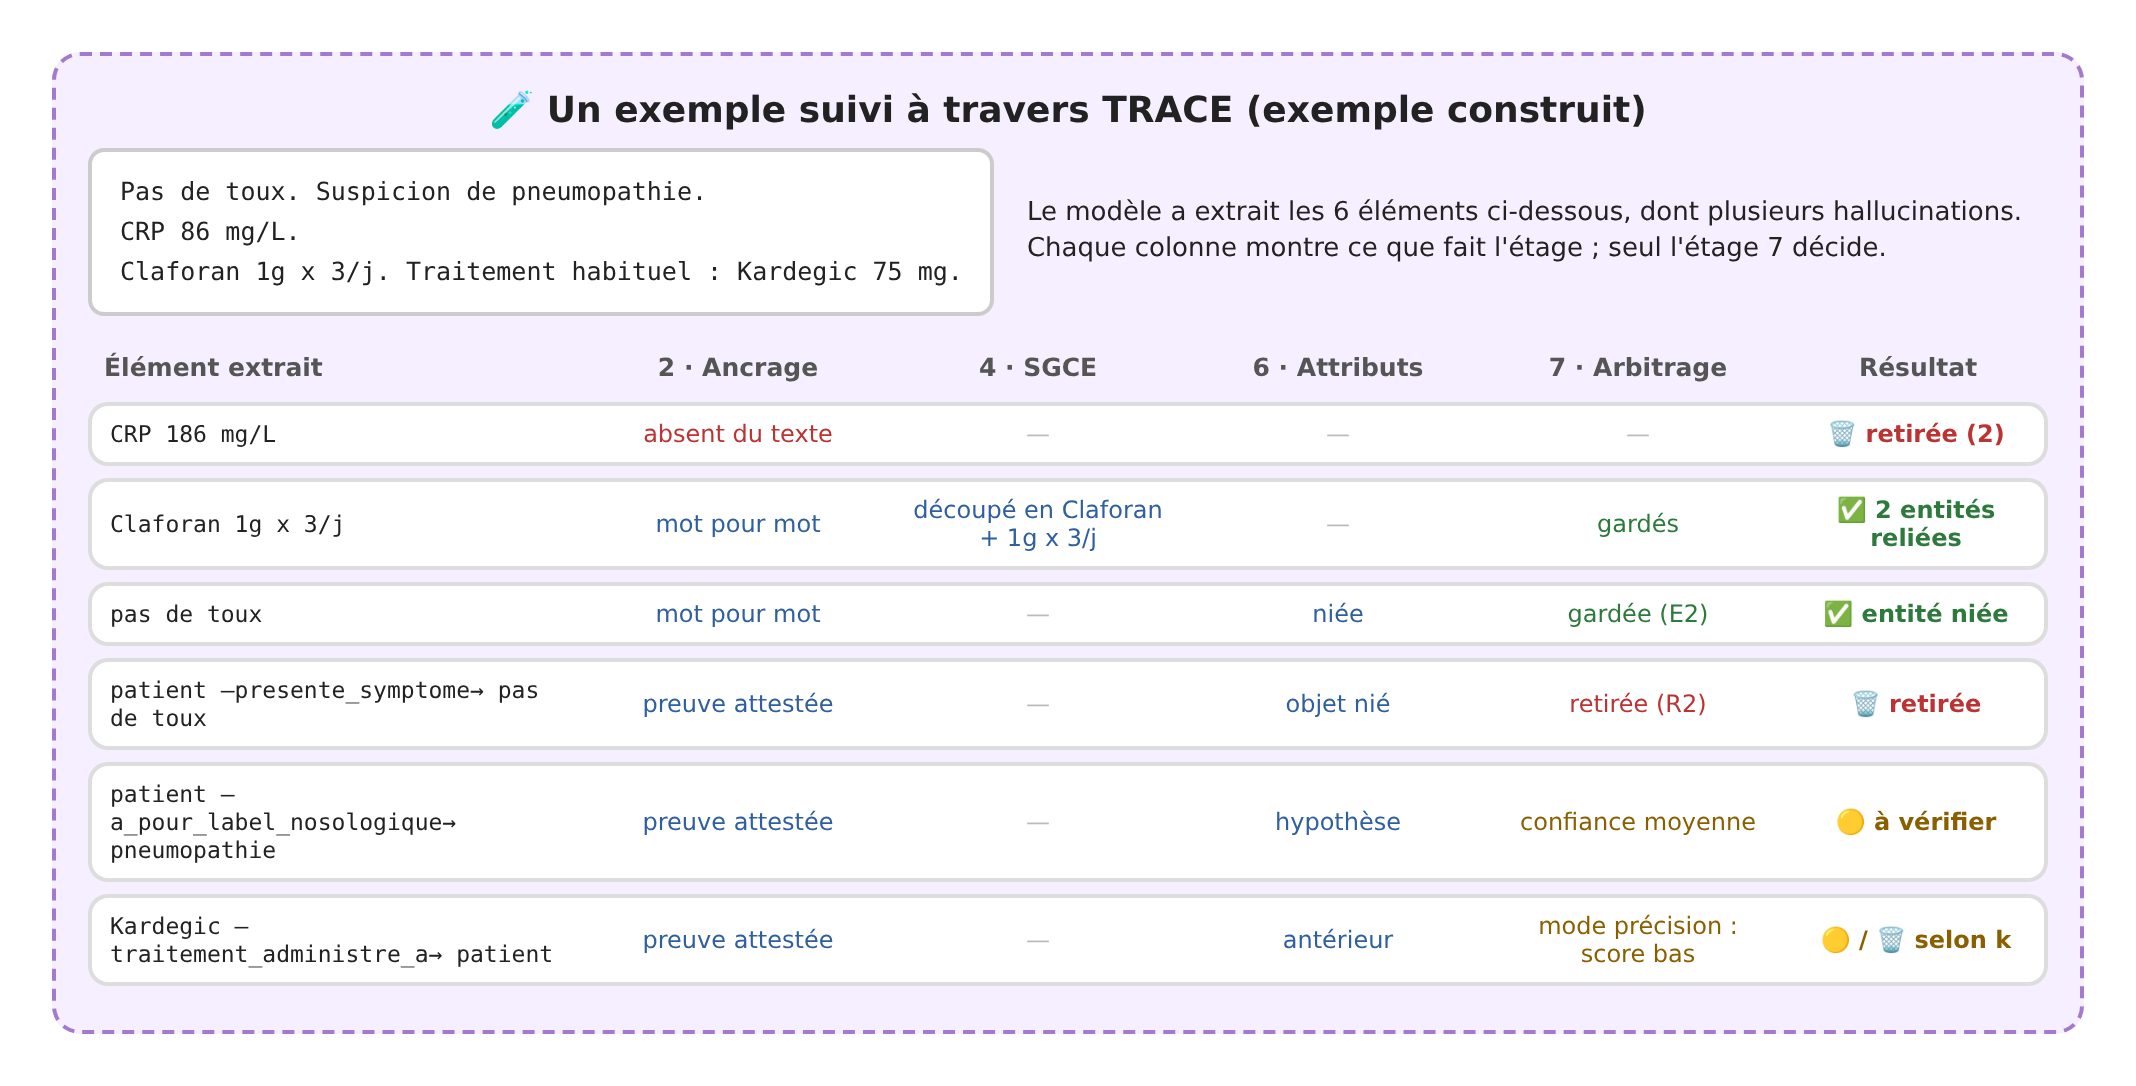
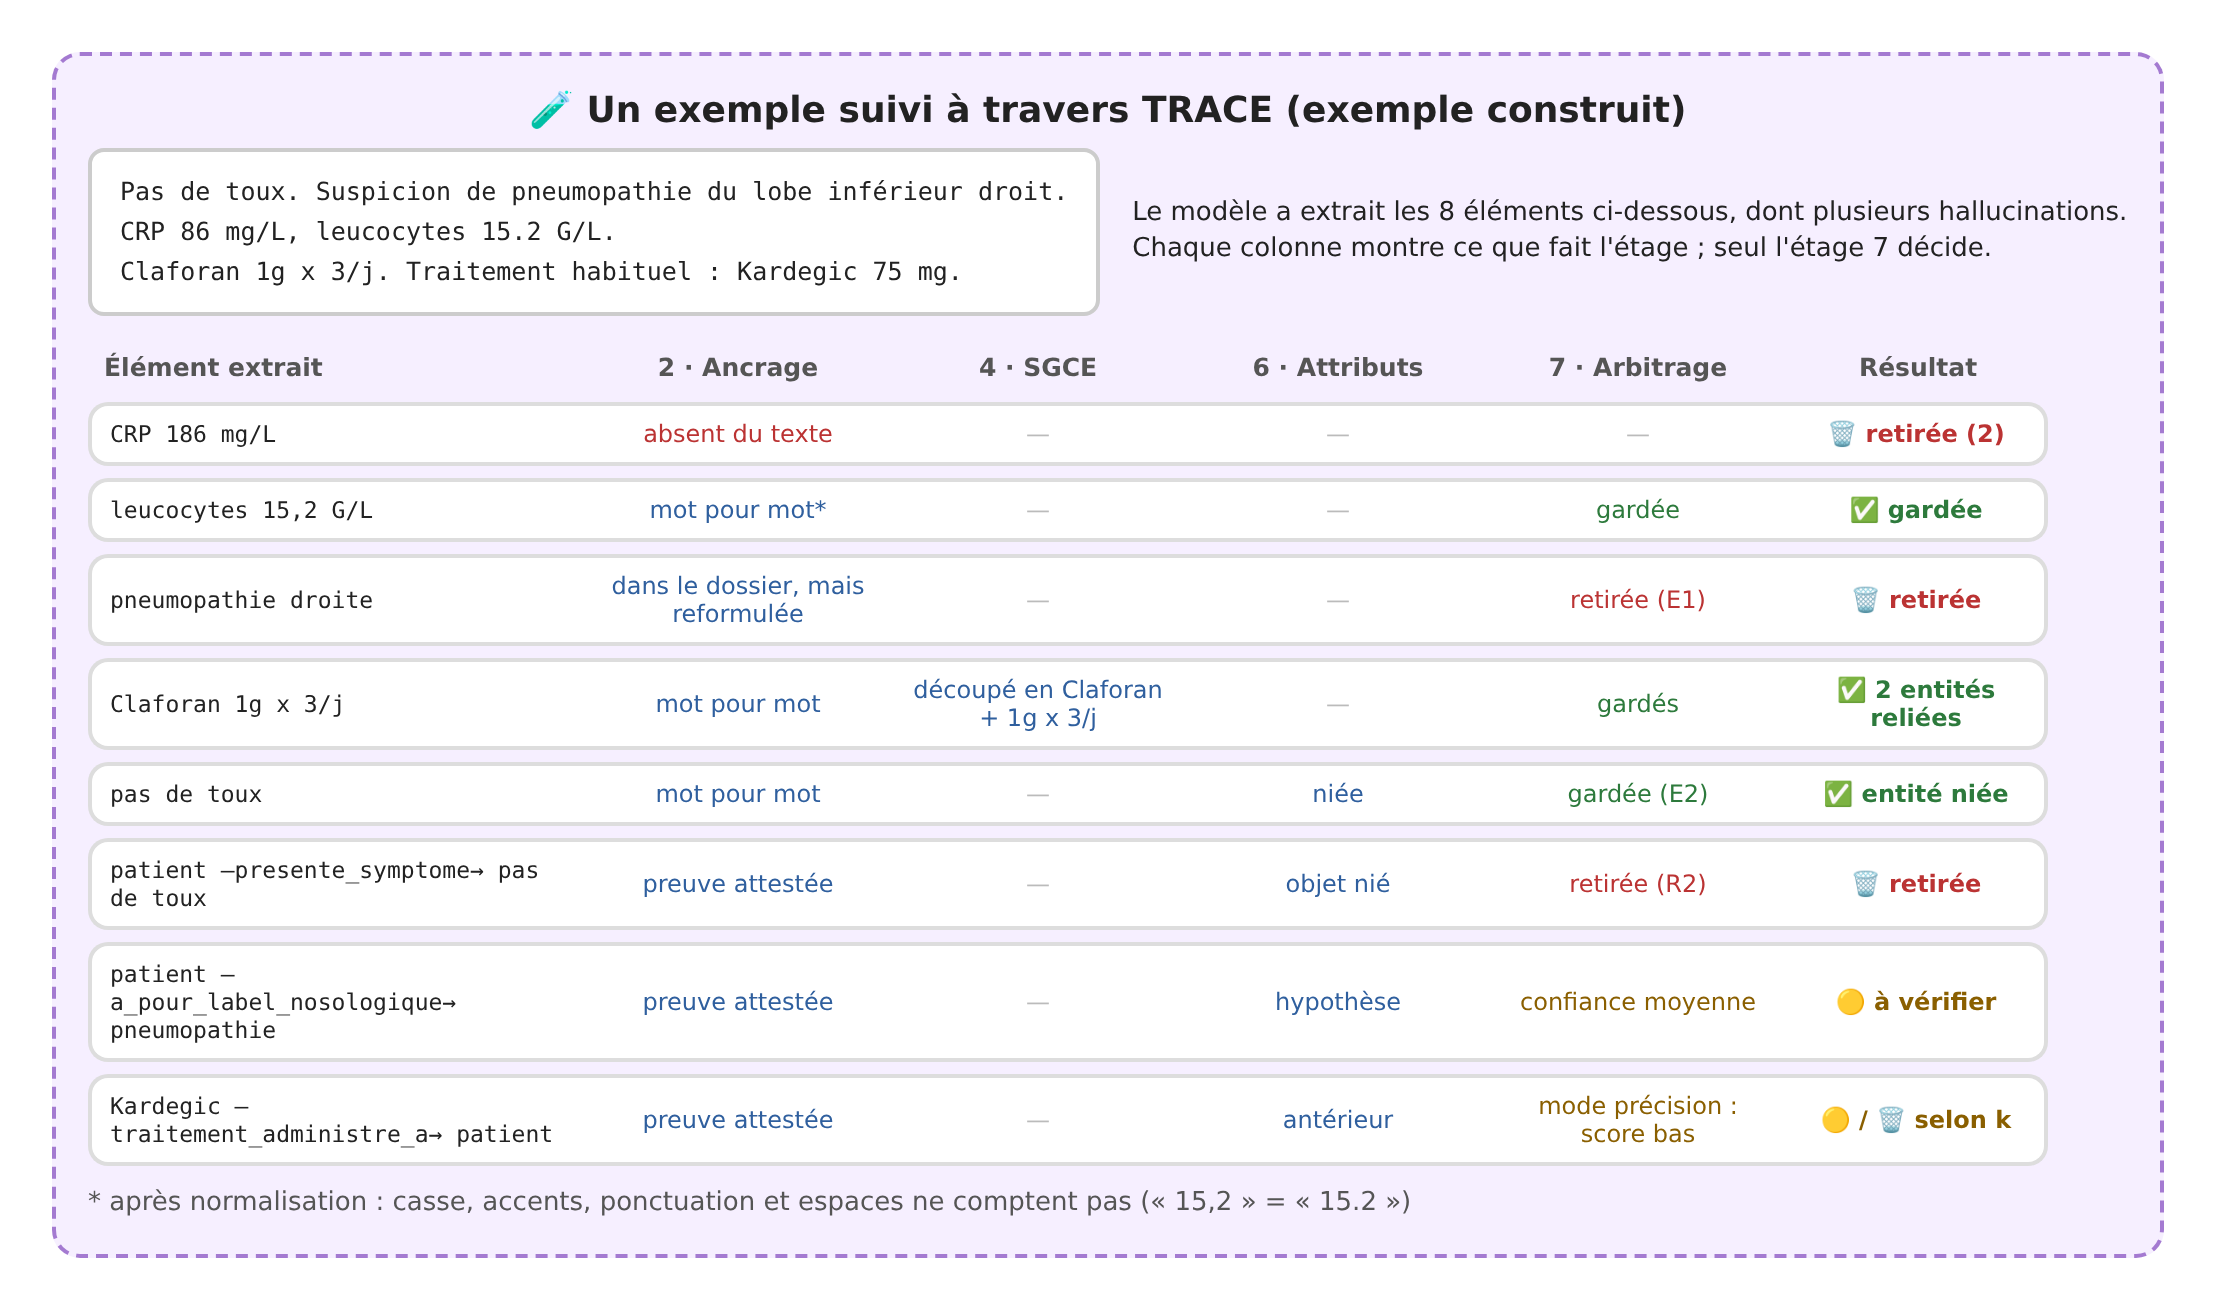
Chapitre 5 : une seule figure d'exemple (ancrage fusionné dans l'exemple complet)
Claude-Session: https://claude.ai/code/session_01U1N2aa47apfcVip95LQDuG

Changed region(s): [[0.0309, 0.0304, 0.9888, 0.9724], [0.4635, 0.1519, 0.9579, 0.2431]]

diff --git a/memoire/figures_sources/exemple_trace.html b/memoire/figures_sources/exemple_trace.html
@@ -10,14 +10,16 @@ td:last-child{border-right:2px solid #ddd;border-radius:0 10px 10px 0;font-weigh
 </style></head><body><div id="root"><div class="dash purple" style="padding:16px">
 <div class="t" style="font-size:18px">🧪 Un exemple suivi à travers TRACE (exemple construit)</div>
 <div style="display:flex;gap:16px;align-items:center;margin-bottom:8px">
-<div class="page">Pas de toux. Suspicion de pneumopathie.<br>CRP 86 mg/L.<br>Claforan 1g x 3/j. Traitement habituel : Kardegic 75 mg.</div>
-<div class="small">Le modèle a extrait les 6 éléments ci-dessous, dont plusieurs hallucinations.<br>Chaque colonne montre ce que fait l'étage ; seul l'étage 7 décide.</div></div>
+<div class="page">Pas de toux. Suspicion de pneumopathie du lobe inférieur droit.<br>CRP 86 mg/L, leucocytes 15.2 G/L.<br>Claforan 1g x 3/j. Traitement habituel : Kardegic 75 mg.</div>
+<div class="small">Le modèle a extrait les 8 éléments ci-dessous, dont plusieurs hallucinations.<br>Chaque colonne montre ce que fait l'étage ; seul l'étage 7 décide.</div></div>
 <table>
 <tr><th style="text-align:left">Élément extrait</th><th>2 · Ancrage</th><th>4 · SGCE</th><th>6 · Attributs</th><th>7 · Arbitrage</th><th>Résultat</th></tr>
 <tr><td>CRP 186 mg/L</td><td class="r">absent du texte</td><td class="d">—</td><td class="d">—</td><td class="d">—</td><td class="r">🗑 retirée (2)</td></tr>
+<tr><td>leucocytes 15,2 G/L</td><td class="b">mot pour mot*</td><td class="d">—</td><td class="d">—</td><td class="g">gardée</td><td class="g">✅ gardée</td></tr>
+<tr><td>pneumopathie droite</td><td class="b">dans le dossier, mais reformulée</td><td class="d">—</td><td class="d">—</td><td class="r">retirée (E1)</td><td class="r">🗑 retirée</td></tr>
 <tr><td>Claforan 1g x 3/j</td><td class="b">mot pour mot</td><td class="b">découpé en Claforan + 1g x 3/j</td><td class="d">—</td><td class="g">gardés</td><td class="g">✅ 2 entités reliées</td></tr>
 <tr><td>pas de toux</td><td class="b">mot pour mot</td><td class="d">—</td><td class="b">niée</td><td class="g">gardée (E2)</td><td class="g">✅ entité niée</td></tr>
 <tr><td>patient —presente_symptome→ pas de toux</td><td class="b">preuve attestée</td><td class="d">—</td><td class="b">objet nié</td><td class="r">retirée (R2)</td><td class="r">🗑 retirée</td></tr>
 <tr><td>patient —a_pour_label_nosologique→ pneumopathie</td><td class="b">preuve attestée</td><td class="d">—</td><td class="b">hypothèse</td><td class="y">confiance moyenne</td><td class="y">🟡 à vérifier</td></tr>
 <tr><td>Kardegic —traitement_administre_a→ patient</td><td class="b">preuve attestée</td><td class="d">—</td><td class="b">antérieur</td><td class="y">mode précision : score bas</td><td class="y">🟡 / 🗑 selon k</td></tr>
-</table></div></div></body></html>
+</table><div class="small" style="color:#555;margin-top:4px">* après normalisation : casse, accents, ponctuation et espaces ne comptent pas (« 15,2 » = « 15.2 »)</div></div></div></body></html>

diff --git a/memoire/chapitre_trace.tex b/memoire/chapitre_trace.tex
@@ -78,7 +78,7 @@ Chaque étage écrit enfin ses annotations dans un champ de traçabilité propre
 
 \paragraph{Problème.} Le modèle invente une entité ou une valeur absente du dossier (hallucination factuelle), ou relie deux entités que le texte ne relie pas (hallucination relationnelle).
 
-\paragraph{Traitement.} L'étage confronte chaque élément au texte source (figure~\ref{fig:c5-ancrage}). Pour chaque \textbf{entité}, il vérifie deux propriétés :
+\paragraph{Traitement.} L'étage confronte chaque élément au texte source. Pour chaque \textbf{entité}, il vérifie deux propriétés :
 \begin{itemize}
   \item l'entité est-elle \textbf{attestée} dans le dossier, c'est-à-dire présente à l'identique, ou avec l'essentiel de ses mots et \emph{tous} ses nombres ?
   \item figure-t-elle \textbf{mot pour mot} dans le texte de sa propre page ?
@@ -93,13 +93,7 @@ Pour chaque \textbf{relation}, il relève quatre signaux :
 \end{itemize}
 L'étage ne retire que ce que le document rend impossible : une entité absente de tout le dossier, avec les relations qui pointent vers elle ; une relation dont une extrémité n'existe pas dans le texte ; une relation dont la preuve citée n'existe pas ; une relation dont les deux extrémités ne sont jamais à moins de 300~caractères l'une de l'autre. Tout le reste est annoté.
 
-\begin{figure}[H]
-\centering
-\includegraphics[width=\textwidth]{images/fig_ancrage.png}
-\caption{Étage~2 : confrontation des entités et des relations au texte de la page (exemple construit)}\label{fig:c5-ancrage}
-\end{figure}
-
-\paragraph{Exemple.} Dans la figure~\ref{fig:c5-ancrage}, l'entité \og CRP 186 mg/L \fg{} est retirée : le nombre 186 n'est écrit nulle part, la page indiquant \og CRP 86 mg/L \fg{}. L'entité \og leucocytes 15,2 G/L \fg{} est gardée : elle ne diffère de la page \og leucocytes 15.2 G/L \fg{} que par la ponctuation. L'entité \og pneumopathie droite \fg{} est attestée, puisque ses mots figurent dans le dossier, mais elle n'est pas écrite telle quelle : la page indique \og pneumopathie du lobe inférieur droit \fg{}. C'est une reformulation du modèle ; elle est seulement annotée, et c'est l'arbitrage qui décidera.
+\paragraph{Exemple.} Une entité \og CRP 186 mg/L \fg{} est retirée si la page indique \og CRP 86 mg/L \fg{} : le nombre 186 n'est écrit nulle part. Une entité \og leucocytes 15,2 G/L \fg{} est gardée si la page écrit \og leucocytes 15.2 G/L \fg{}, car elles ne diffèrent que par la ponctuation. Une entité \og pneumopathie droite \fg{} est attestée si la page indique \og pneumopathie du lobe inférieur droit \fg{}, puisque ses mots figurent dans le dossier, mais elle n'est pas écrite telle quelle : c'est une reformulation du modèle, seulement annotée ici, et c'est l'arbitrage qui décidera. Ces cas sont repris dans l'exemple complet de la section~\ref{sec:c5-exemple}.
 
 \paragraph{Justification.} Exiger la présence de tous les nombres répond au risque le plus grave en médecine : un chiffre faux. Ne pas retirer une mention simplement reformulée évite en revanche de perdre des éléments justes, car le modèle développe souvent une abréviation ou accorde un mot. Ce contrôle correspond à la vérification de fidélité à la source décrite dans la littérature~\cite{ji2023survey}, et à ce que RAPTOR+ appelle les extractions non ancrées~\cite{raptorplus2026}.
 
@@ -280,23 +274,25 @@ Le vote est le seul composant de TRACE qui apprend de la référence. Il est don
 % ============================================================
 \section{Un exemple à travers la chaîne}\label{sec:c5-exemple}
 
-La figure~\ref{fig:c5-exemple} suit six éléments extraits d'un court passage, construit pour l'illustration, à travers les étages qui les concernent.
+La figure~\ref{fig:c5-exemple} suit huit éléments extraits d'un court passage, construit pour l'illustration, à travers les étages qui les concernent.
 
 \begin{figure}[H]
 \centering
 \includegraphics[width=\textwidth]{images/fig_exemple_trace.png}
-\caption{Six éléments extraits suivis à travers TRACE (exemple construit, sans donnée patient)}\label{fig:c5-exemple}
+\caption{Huit éléments extraits suivis à travers TRACE (exemple construit, sans donnée patient)}\label{fig:c5-exemple}
 \end{figure}
 
 \begin{itemize}
   \item \og CRP 186 mg/L \fg{}, dont le nombre n'est pas écrit dans la page, est retirée dès l'ancrage : c'est une hallucination factuelle.
+  \item \og Leucocytes 15,2 G/L \fg{} est gardée : elle ne diffère de la page (\og 15.2 \fg{}) que par la ponctuation, qui ne compte pas.
+  \item \og Pneumopathie droite \fg{} est retirée par la règle E1 : ses mots sont dans le dossier, mais la page écrit \og pneumopathie du lobe inférieur droit \fg{} ; c'est une reformulation du modèle.
   \item \og Claforan 1g x 3/j \fg{}, extrait comme un seul traitement, est découpé par SGCE en un traitement et une posologie reliés : l'hallucination structurelle est réparée sans perte d'information.
   \item \og Pas de toux \fg{} est marquée comme niée à l'étage~6 et conservée par l'arbitrage : l'absence de toux est une information clinique.
   \item La relation qui donne \og pas de toux \fg{} comme un symptôme présent est retirée par la règle R2 : c'est une hallucination contextuelle.
   \item Le diagnostic \og pneumopathie \fg{}, précédé de \og suspicion de \fg{}, est gardé avec une confiance moyenne : le médecin sait qu'il doit le vérifier.
   \item L'administration du Kardegic, cité dans le traitement habituel, est marquée comme antérieure au séjour ; en mode précision, son score est bas, et elle est retirée ou gardée selon le niveau d'exigence choisi.
 \end{itemize}
-Dans les six cas, la décision peut être expliquée : on sait quel étage a relevé le problème, et quelle règle a tranché.
+Dans les huit cas, la décision peut être expliquée : on sait quel étage a relevé le problème, et quelle règle a tranché.
 
 % ============================================================
 \section{Conclusion}\label{sec:c5-conclusion}
